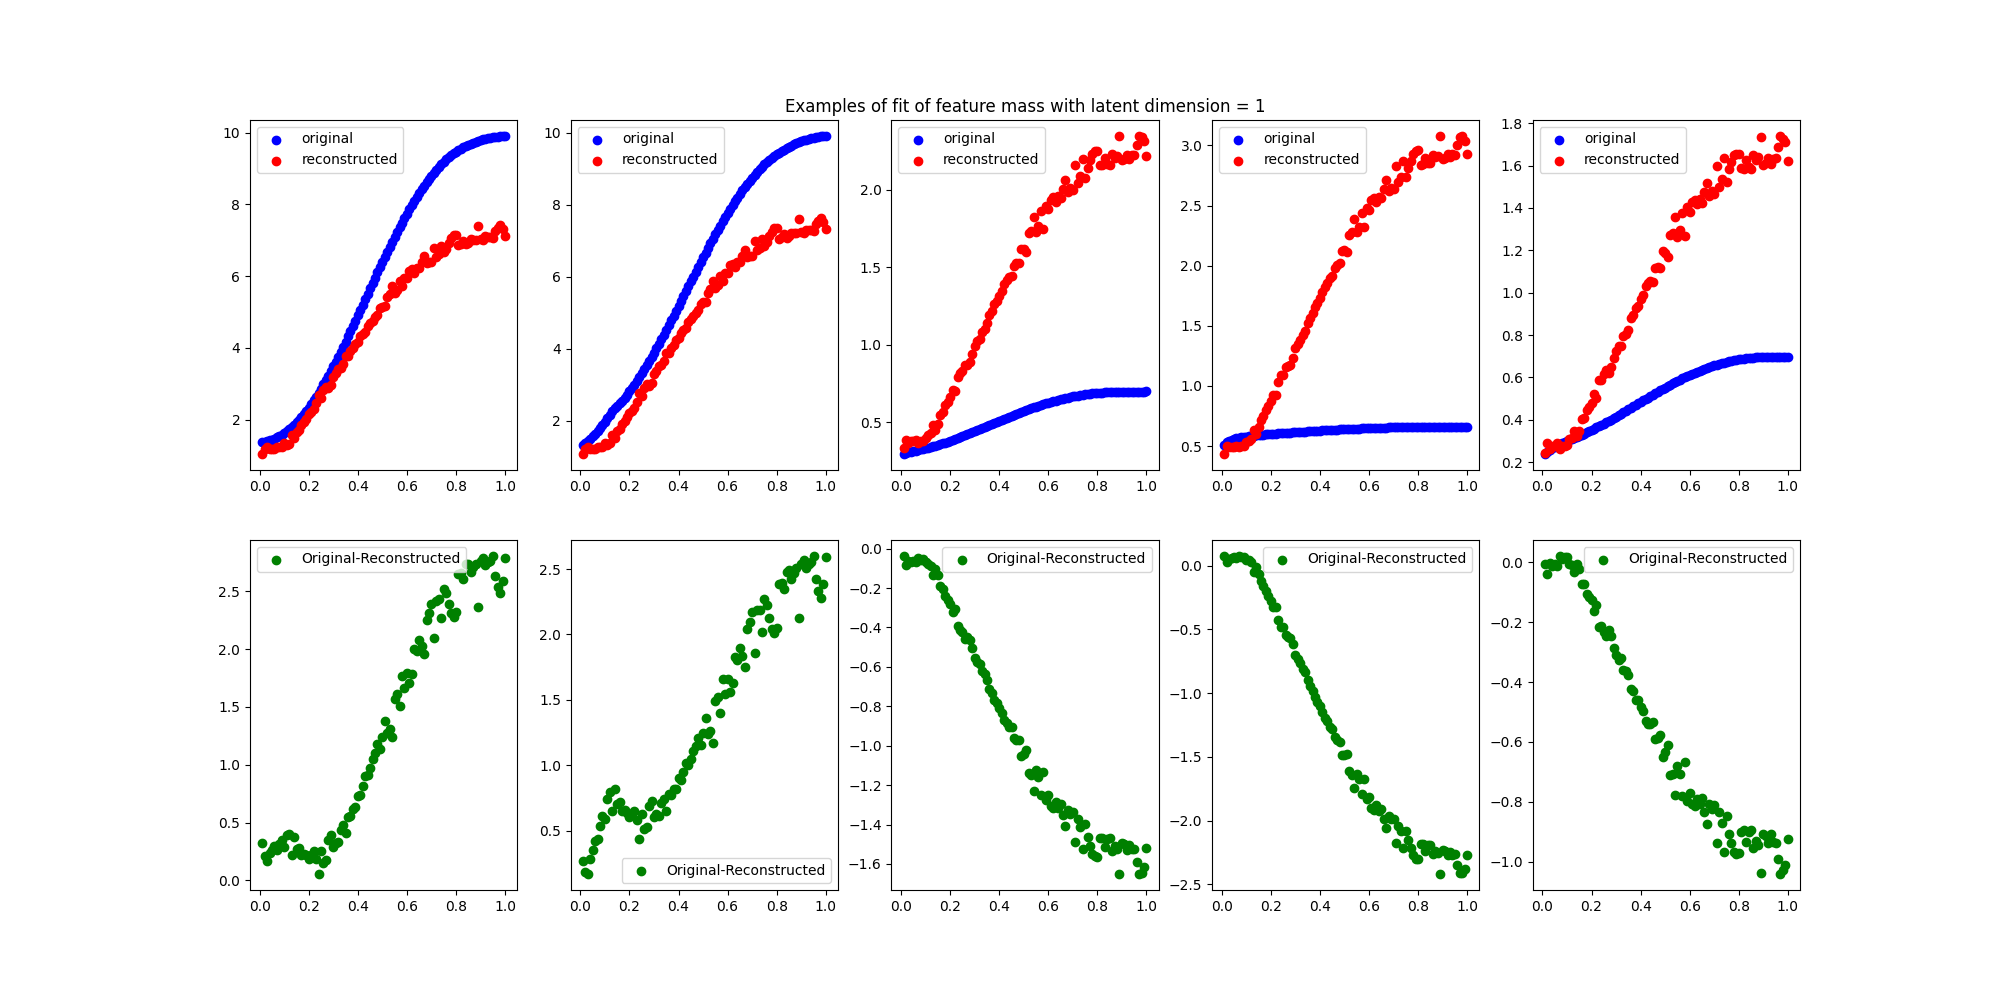
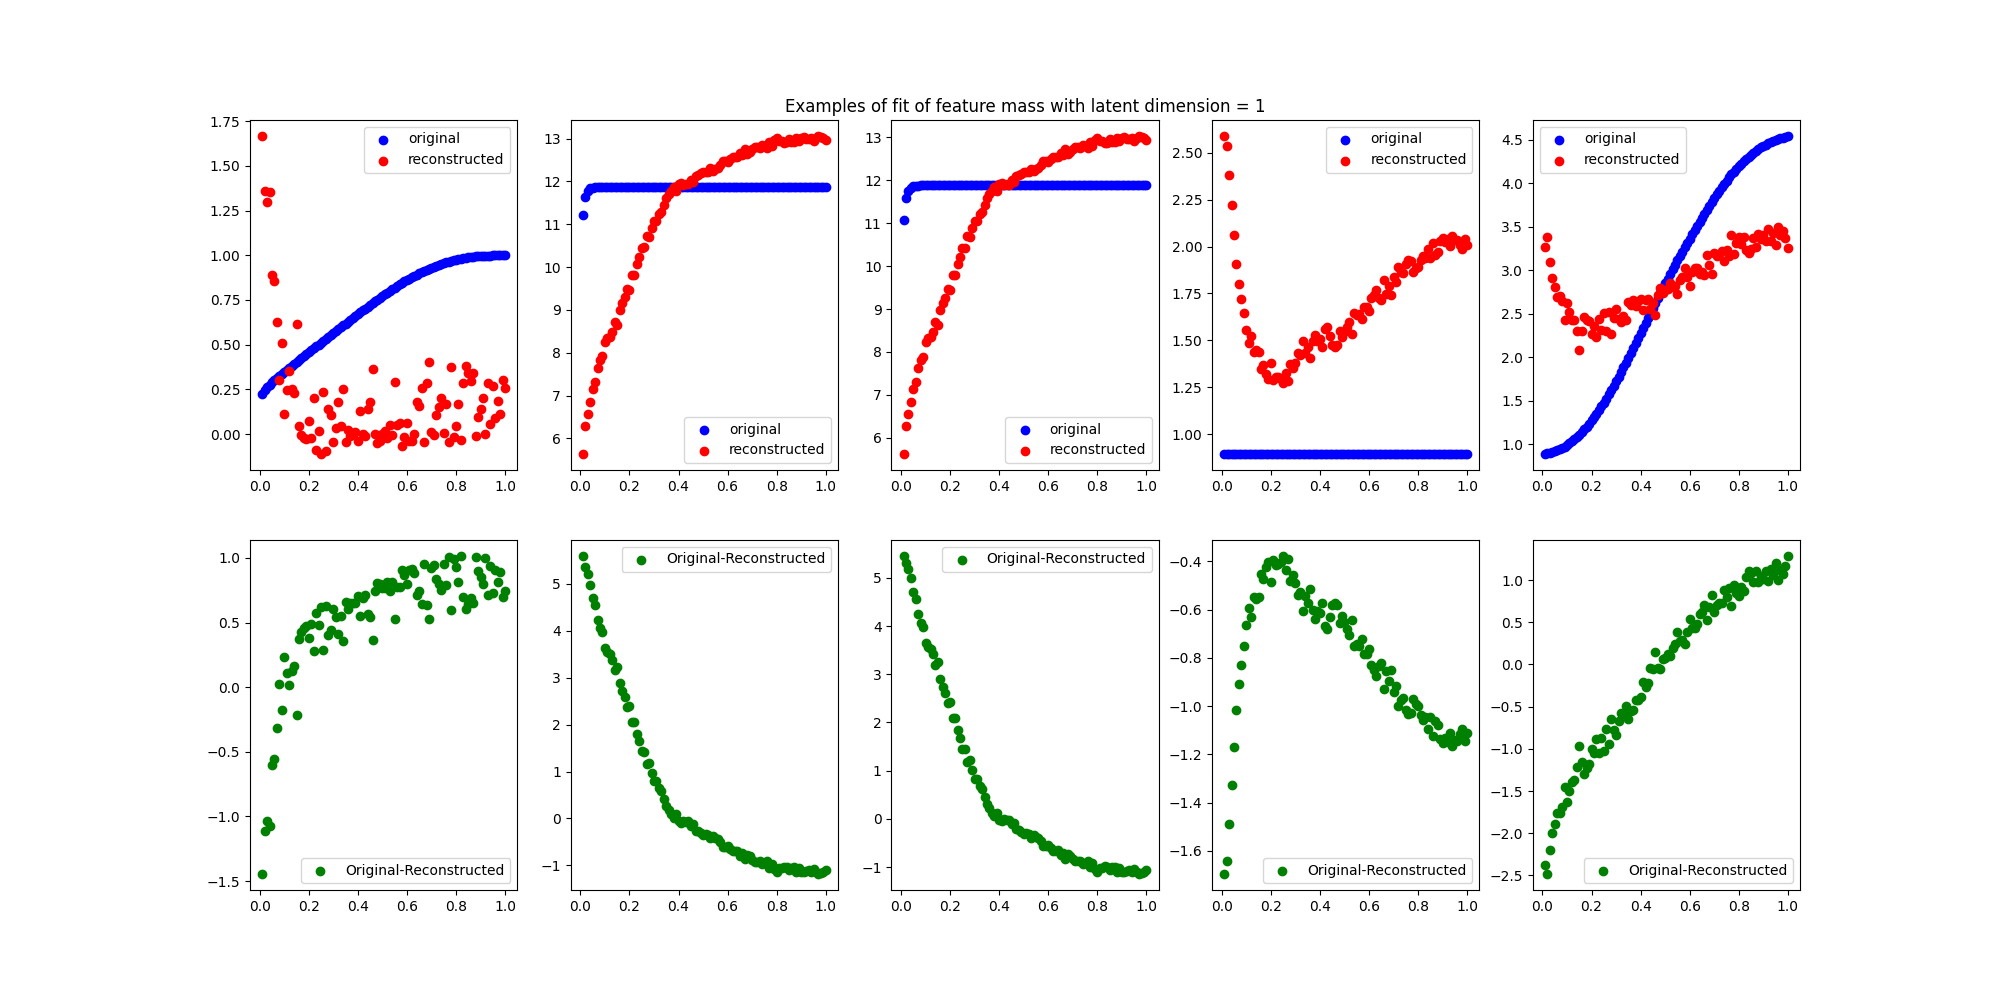
relative difference added

diff --git a/project/main.py b/project/main.py
@@ -15,10 +15,10 @@ from tqdm import tqdm
 
 ##########IMPORT PARAMETERS##########
 cwd = os.getcwd()
-dir_names = ['MESA-Web_M07_Z00001', 'MESA-Web_M10_Z002']  # type 'all' if you want to use all the data
+dir_names = ['all']  # type 'all' if you want to use all the data
 column_filter = ['mass', 'radius', 'initial_mass', 'initial_z', 'star_age', 'logRho', 'logT',
                  'Teff', 'energy', 'photosphere_L', 'photosphere_r', 'star_mass', 'h1', 'he3', 'he4']
-column_filter_train = ['logRho','mass']  # radius is not included for coding reasons but is still considered
+column_filter_train = ['logRho','logT']  # radius is not included for coding reasons but is still considered
 n_points = 100  # n of points to sample from each profile
 r = np.linspace(0, 1, n_points + 1)[1:]  # values of normalized r on which to take the values of the variables
 
@@ -139,7 +139,6 @@ for i in range(1, 10):
     plt.close()
 
     x_reconstructed = autoencoder.predict(x_test)
-    print(x_reconstructed.shape)
 
     # Plot and save original vs reconstructed profiles
     n=5
@@ -150,13 +149,9 @@ for i in range(1, 10):
         plt.title(f'Examples of fit of feature {feature} with latent dimension = {i}')
         # Display original
         for j in range(n):
-            print(x_test)
-            print(x_test.shape)
             original_data=x_test[j,k*n_points:(k+1)*n_points]
-            print(original_data.shape)
             reconstructed_data=x_reconstructed[j,k*n_points:(k+1)*n_points]
-            print(reconstructed_data.shape)
-            diff=original_data-reconstructed_data
+            red_diff=(reconstructed_data-original_data)/original_data
 
             ax = plt.subplot(2, n, j + 1)
             plt.scatter(r, original_data,c="blue",label="original")
@@ -166,7 +161,7 @@ for i in range(1, 10):
 
             #Display reconstruction
             ax = plt.subplot(2, n, j + 1 + n)
-            plt.scatter(r, diff,label="Original-Reconstructed",c="green")
+            plt.scatter(r, red_diff,label="Original-Reconstructed",c="green")
             plt.legend()
             plt.gray()
 
